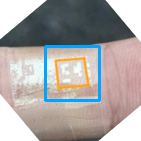
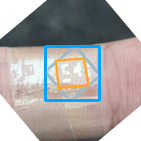
Improve polygon pog figure

Changed region(s): [[0.3972, 0.3121, 0.7092, 0.7092], [0.3121, 0.4255, 0.4823, 0.7092]]

diff --git a/thesis/thesis.tex b/thesis/thesis.tex
@@ -501,9 +501,9 @@ The overview seen in \figureref{fig:arch_data} shows the various dataset types, 
 
 \begin{figure}
   \centering
-  \subcaptionbox{Unrotated image and labels}
+  \subcaptionbox{Unrotated image and polygon (orange) / bounding box (blue) labels}
      {\includegraphics[width=0.3\textwidth]{image/polygon_pog_1}}
-  \subcaptionbox{Image and labels after rotation}
+  \subcaptionbox{Image and polygon (orange) / bounding box (blue) labels after 50° rotation, as well as the old bounding box data in gray}
      {\includegraphics[width=0.3\textwidth]{image/polygon_pog_2}}
   \caption{Two images from the testset showing a polygon label in orange and a bounding box label in blue, after a rotation augmentation operation was applied in image two, the new bounding box label could only be created based on the old labels information, which was already too large since it could not capture the rotation of the object, the polygon label however can be augmented with the image without loosing label accuracy by transforming the polygon points.}
   \label{fig:polygon-good}
